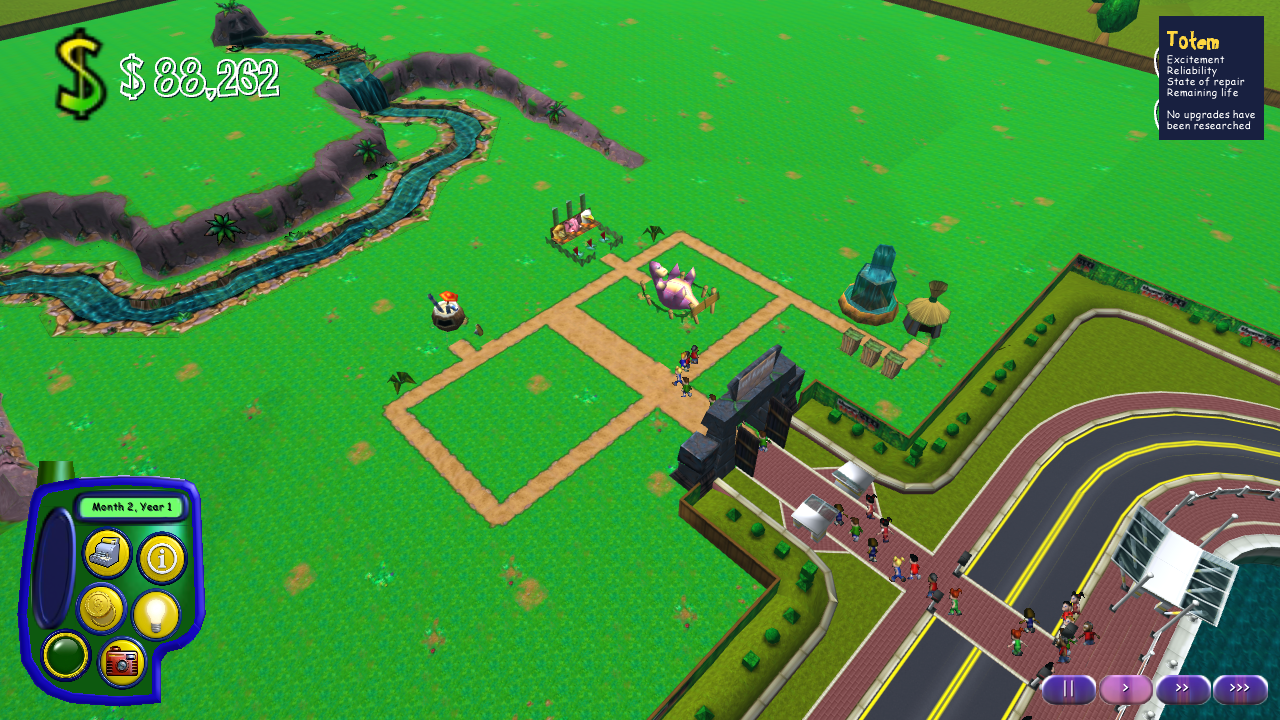
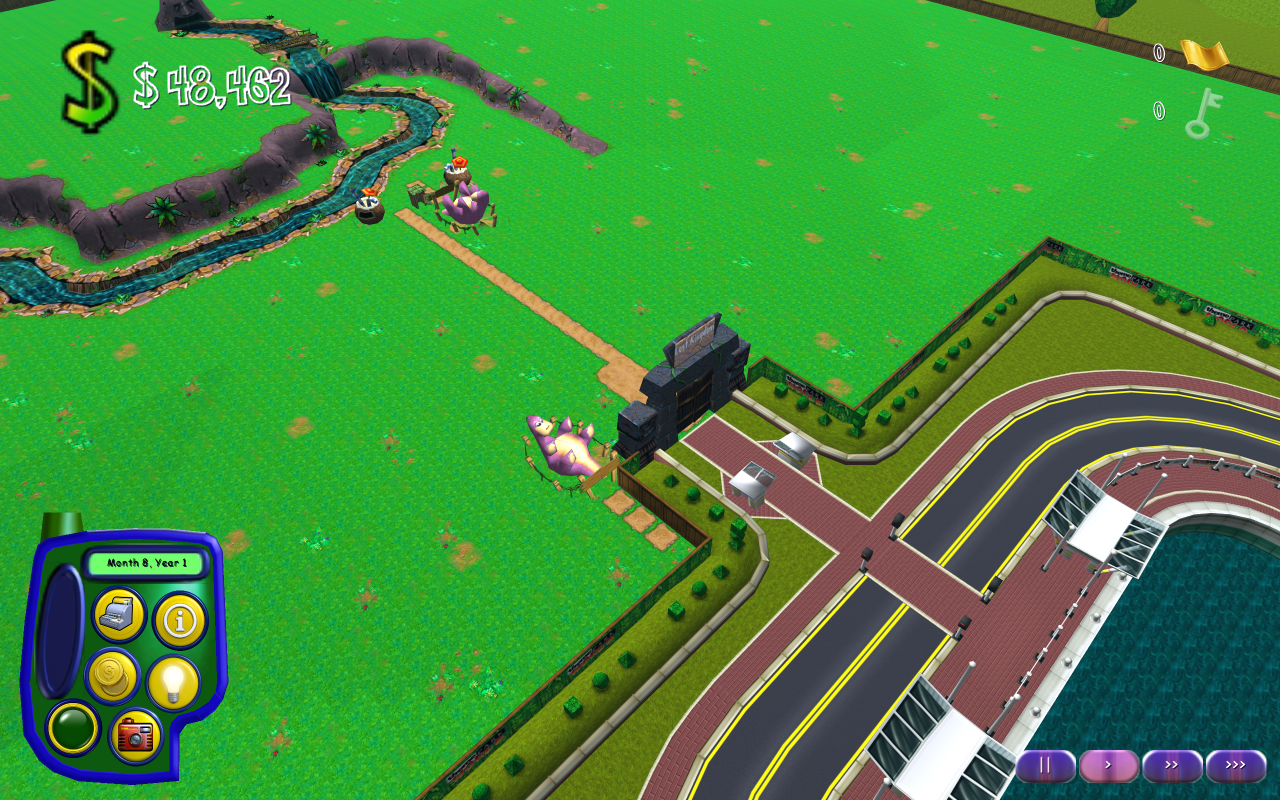
Show players how to resume their built parks
Document the verified rich browser restart, keep the native 600-tick
continuation claim scoped to its actual evidence, and refresh the README
screenshot with real browser gameplay after loading an own-format park.

Confidence: high
Scope-risk: narrow
Tested: Rich browser save bytes and IDs preserved across page/WebAssembly restart; generated 104 documentation pages and checked all links in 110 HTML pages
Not-tested: Published site awaits deployment

diff --git a/docs/PARK-SAVES.md b/docs/PARK-SAVES.md
@@ -131,5 +131,7 @@ separate processes on real Metal with identical section hashes throughout the co
 browser build saved from the real pause menu, kept the park across a page and WebAssembly reload
 with the game folder chosen again, and resumed with identical save bytes, stable ids, visitors and
 income still arriving; an invalid-version save and a late script-identity failure were both
-rejected with the running park's state unchanged. A richer browser fixture was still being verified
-when this page was written, so browser evidence is not summed up as a fixed tick count here.
+rejected with the running park's state unchanged. The browser also re-saved and reloaded the richer
+park with eight placed objects, fourteen visitors, two staff and two same-type shops priced at
+$60/$120. The save bytes, object/guest/staff ids, prices and closed-park state survived the page and
+WebAssembly restart. The 600-tick equality check above was performed in the native processes.

diff --git a/README.md b/README.md
@@ -12,9 +12,9 @@
     </p>
 </p>
 
-![OpenTPW running with the bundled Enhanced HUD and icons](website/images/shot-current.png)
+![A resumed Jungle park with fixed rides, shops and the bundled Enhanced HUD](website/images/shot-current.png)
 
-Actual OpenTPW gameplay with the bundled Enhanced HUD and icons.
+Actual browser gameplay after loading an own-format park save, with the bundled Enhanced HUD and icons.
 
 ## About this fork
 
